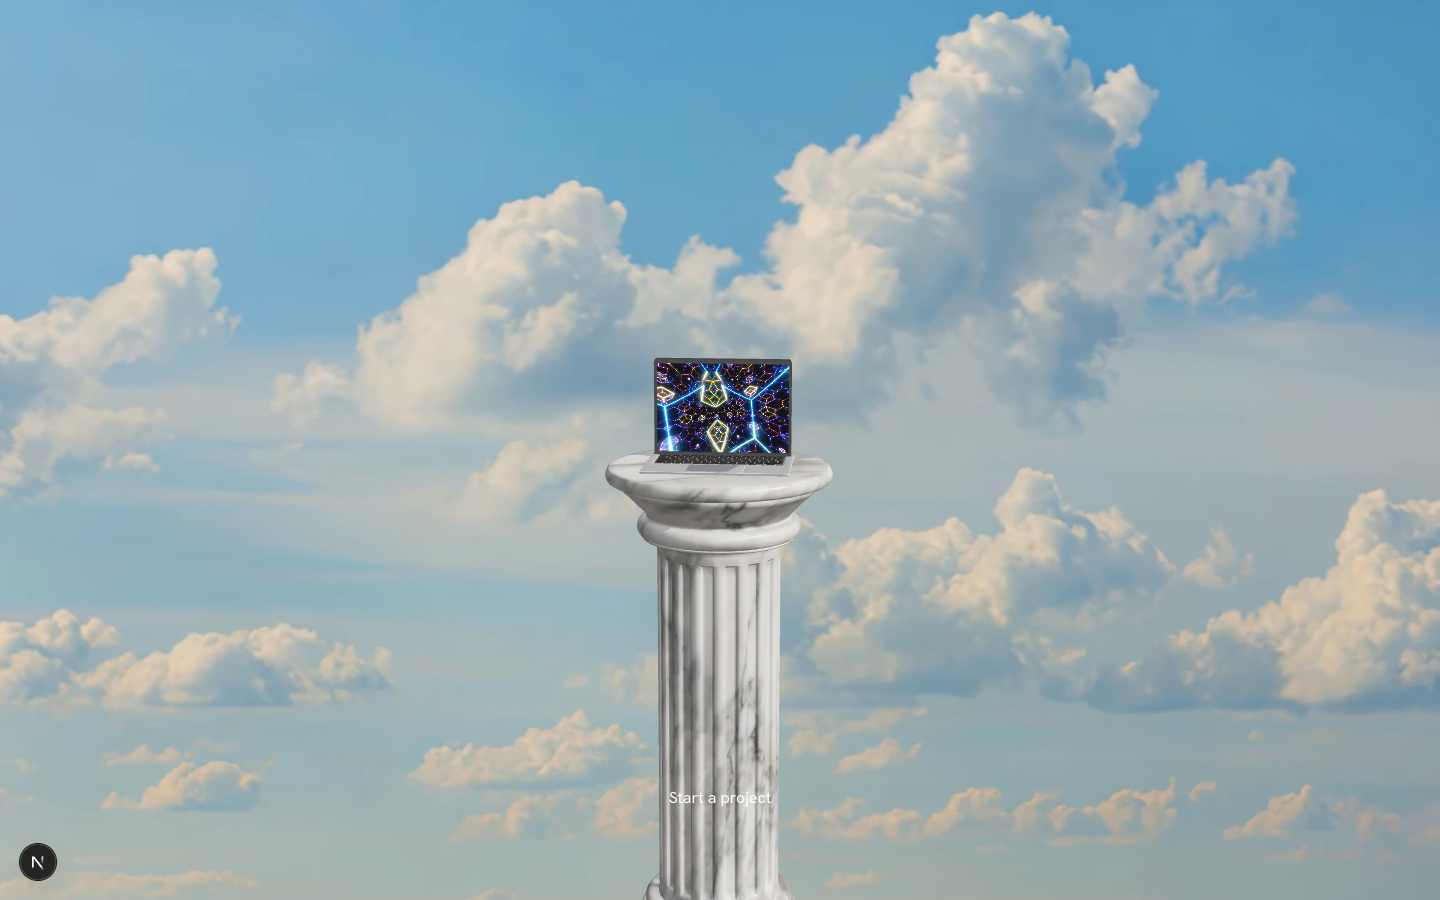
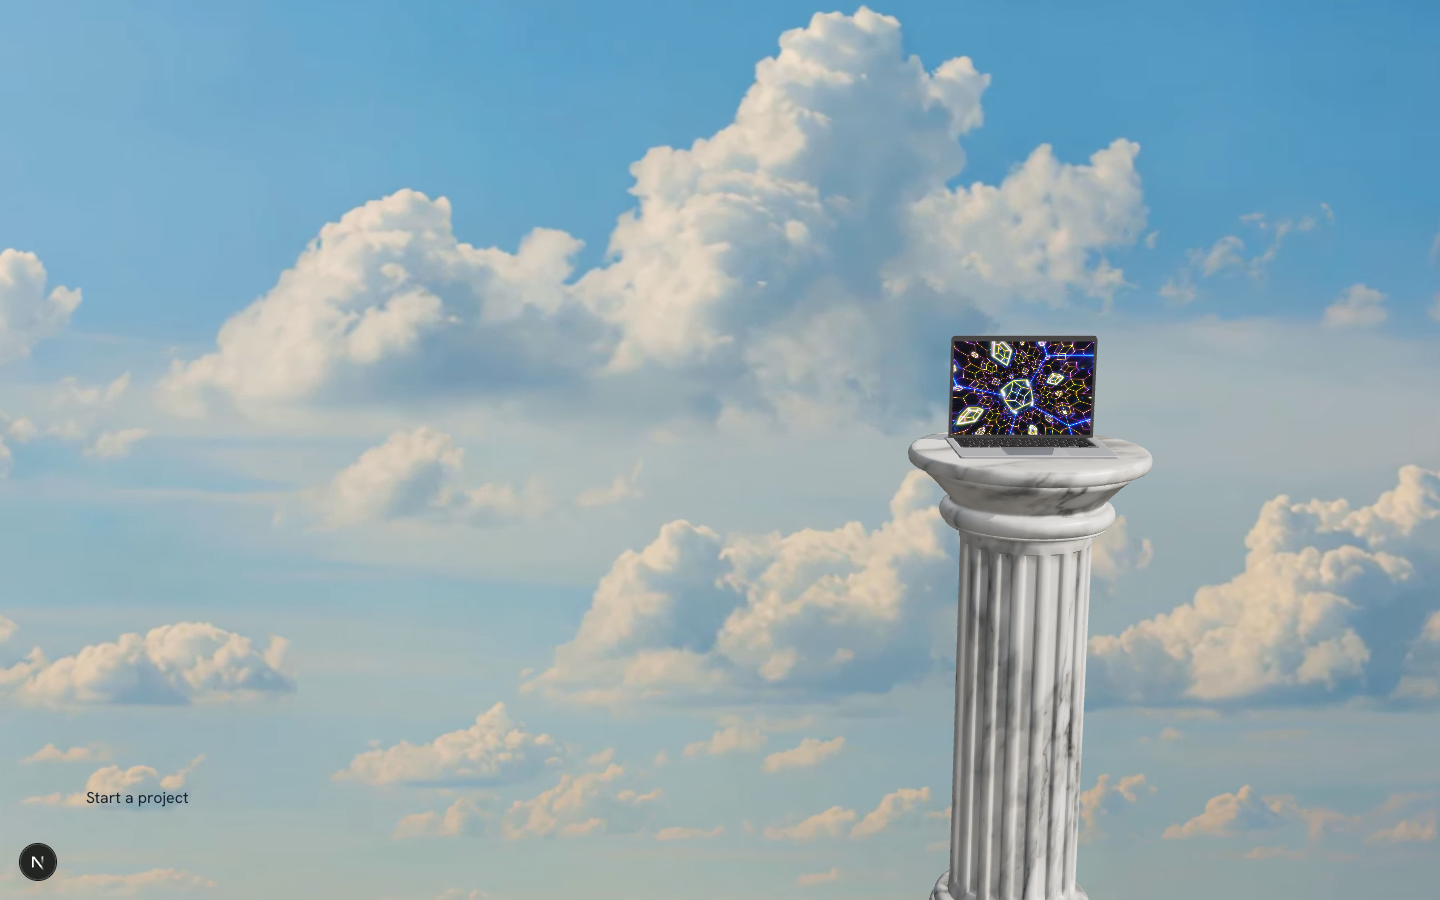
Tabs polish: staggered panel children, travelling rail marker, exit composition with the pillar on the golden line and the button clear of it
Claude-Session: https://claude.ai/code/session_01NAdPXLUXCGhh82qBsMYyAh

diff --git a/src/hero/ServiceTabs.tsx b/src/hero/ServiceTabs.tsx
@@ -22,6 +22,7 @@ export function ServiceTabs() {
   const [active, setActive] = useState(-1);
   const [visible, setVisible] = useState(false);
   const [heading, setHeading] = useState(false);
+  const [rail, setRail] = useState(0);
 
   useEffect(() => {
     const apply = () => {
@@ -30,6 +31,8 @@ export function ServiceTabs() {
       setVisible(inside);
       setHeading(q > Q.arrive[0] && q < Q.truck[0] - 0.005);
       setActive(q >= Q.truck[0] && q <= Q.turnBack[0] ? activeIndex(q) : -1);
+      const u = remap(q, Q.truck[0], Q.truck[1]);
+      setRail(Math.round(u * 1000) / 1000);
     };
     apply();
     return onProgress(apply);
@@ -40,7 +43,8 @@ export function ServiceTabs() {
   return (
     <div className={`tabs${visible ? " is-visible" : ""}`} aria-label="Services">
       <h2 className={`tabs__heading${heading ? " is-on" : ""}`}>{SECTION_HEADING}</h2>
-      <div className="tabs__bar" role="tablist">
+      <div className="tabs__bar" role="tablist" style={{ "--rail": rail } as React.CSSProperties}>
+        <span className="tabs__rail" aria-hidden="true" />
         {SERVICES.map((s, i) => (
           <button
             key={s.title}
@@ -58,11 +62,11 @@ export function ServiceTabs() {
       <div className="tabs__panels">
         {SERVICES.map((s, i) => (
           <section key={s.title} id={`service-${i}`} role="tabpanel" className={`tabs__panel${active === i ? " is-open" : ""}`} aria-hidden={active !== i}>
-            <h3 className="tabs__title">{s.title}</h3>
-            <p className="tabs__lead">{s.lead}</p>
+            <h3 className="tabs__title tabs__in" style={{ "--i": 0 } as React.CSSProperties}>{s.title}</h3>
+            <p className="tabs__lead tabs__in" style={{ "--i": 1 } as React.CSSProperties}>{s.lead}</p>
             {s.points.length > 0 && (
               <ul className="tabs__points">
-                {s.points.map((p) => <li key={p}>{p}</li>)}
+                {s.points.map((p, j) => <li key={p} className="tabs__in" style={{ "--i": 2 + j * 0.5 } as React.CSSProperties}>{p}</li>)}
               </ul>
             )}
           </section>

diff --git a/src/app/globals.css b/src/app/globals.css
@@ -284,10 +284,9 @@ body {
   right: clamp(1.25rem, 6vw, 6rem);
 }
 .copy--cta {
-  left: 50%;
+  left: clamp(1.25rem, 6vw, 6rem);
   bottom: clamp(1.5rem, 10vh, 7rem);
-  transform: translateX(-50%);
-  color: white;  /* it sits over the dark world inside the screen */
+  color: var(--ink);  /* it sits over the sky on the pull out, left of the pillar */
 }
 
 @keyframes headline-in {
@@ -416,6 +415,7 @@ footer.section {
   top: clamp(1rem, 4.5vh, 3rem);
   transform: translateX(-50%);
   display: flex;
+  --rail: 0;
   gap: calc(var(--pad) / var(--phi));
   padding: calc(var(--pad) / var(--phi) / var(--phi));
   border-radius: 999px;
@@ -427,6 +427,31 @@ footer.section {
   max-width: calc(100vw - 2rem);
   overflow-x: auto;
   scrollbar-width: none;
+}
+/* a hairline that travels the bar with the scroll, so you always know where you are in the six */
+.tabs__rail {
+  position: absolute;
+  left: calc(var(--pad) / var(--phi) / var(--phi));
+  right: calc(var(--pad) / var(--phi) / var(--phi));
+  bottom: 0.3rem;
+  height: 1px;
+  background: rgba(255, 255, 255, 0.14);
+  pointer-events: none;
+}
+.tabs__rail::after {
+  content: "";
+  position: absolute;
+  left: 0;
+  top: -1px;
+  height: 3px;
+  width: 2.2rem;
+  border-radius: 2px;
+  background: white;
+  transform: translateX(calc(var(--rail) * (100% * 1)));
+  /* travel across the rail's width minus the marker's own width */
+  left: calc(var(--rail) * (100% - 2.2rem));
+  transform: none;
+  transition: left 120ms linear;
 }
 .tabs__tab {
   appearance: none;
@@ -480,6 +505,18 @@ footer.section {
   opacity: 1;
   transform: none;
   pointer-events: auto;
+}
+/* children arrive in order once the panel opens */
+.tabs__in {
+  opacity: 0;
+  transform: translateY(0.5rem);
+  transition: opacity 420ms ease, transform 520ms cubic-bezier(0.2, 0.7, 0.2, 1);
+  transition-delay: 0ms;
+}
+.tabs__panel.is-open .tabs__in {
+  opacity: 1;
+  transform: none;
+  transition-delay: calc(90ms + var(--i) * 70ms);
 }
 .tabs__title {
   margin: 0 0 calc(var(--pad) / var(--phi));

diff --git a/src/hero/CameraRig.tsx b/src/hero/CameraRig.tsx
@@ -158,8 +158,9 @@ export function CameraRig({ frozen = false }: { frozen?: boolean }) {
     // outside after the return crossing: pull back and up to a composition of pillar and laptop against the sky
     const out = ease.inOut(remap(q, Q.pullOut[0], Q.pullOut[1]));
     if (out > 0) {
-      const endPos = new THREE.Vector3(0.4, 1.35, 4.2);
-      const endLook = new THREE.Vector3(0, 0.55, 0);
+      // pillar on the right golden line, room on the left for the button, laptop still open and playing
+      const endPos = new THREE.Vector3(-0.85, 1.3, 4.0);
+      const endLook = new THREE.Vector3(-0.85, 0.5, 0);
       tmpPos.lerp(endPos, out);
       tmpLook.lerp(endLook, out);
     }
